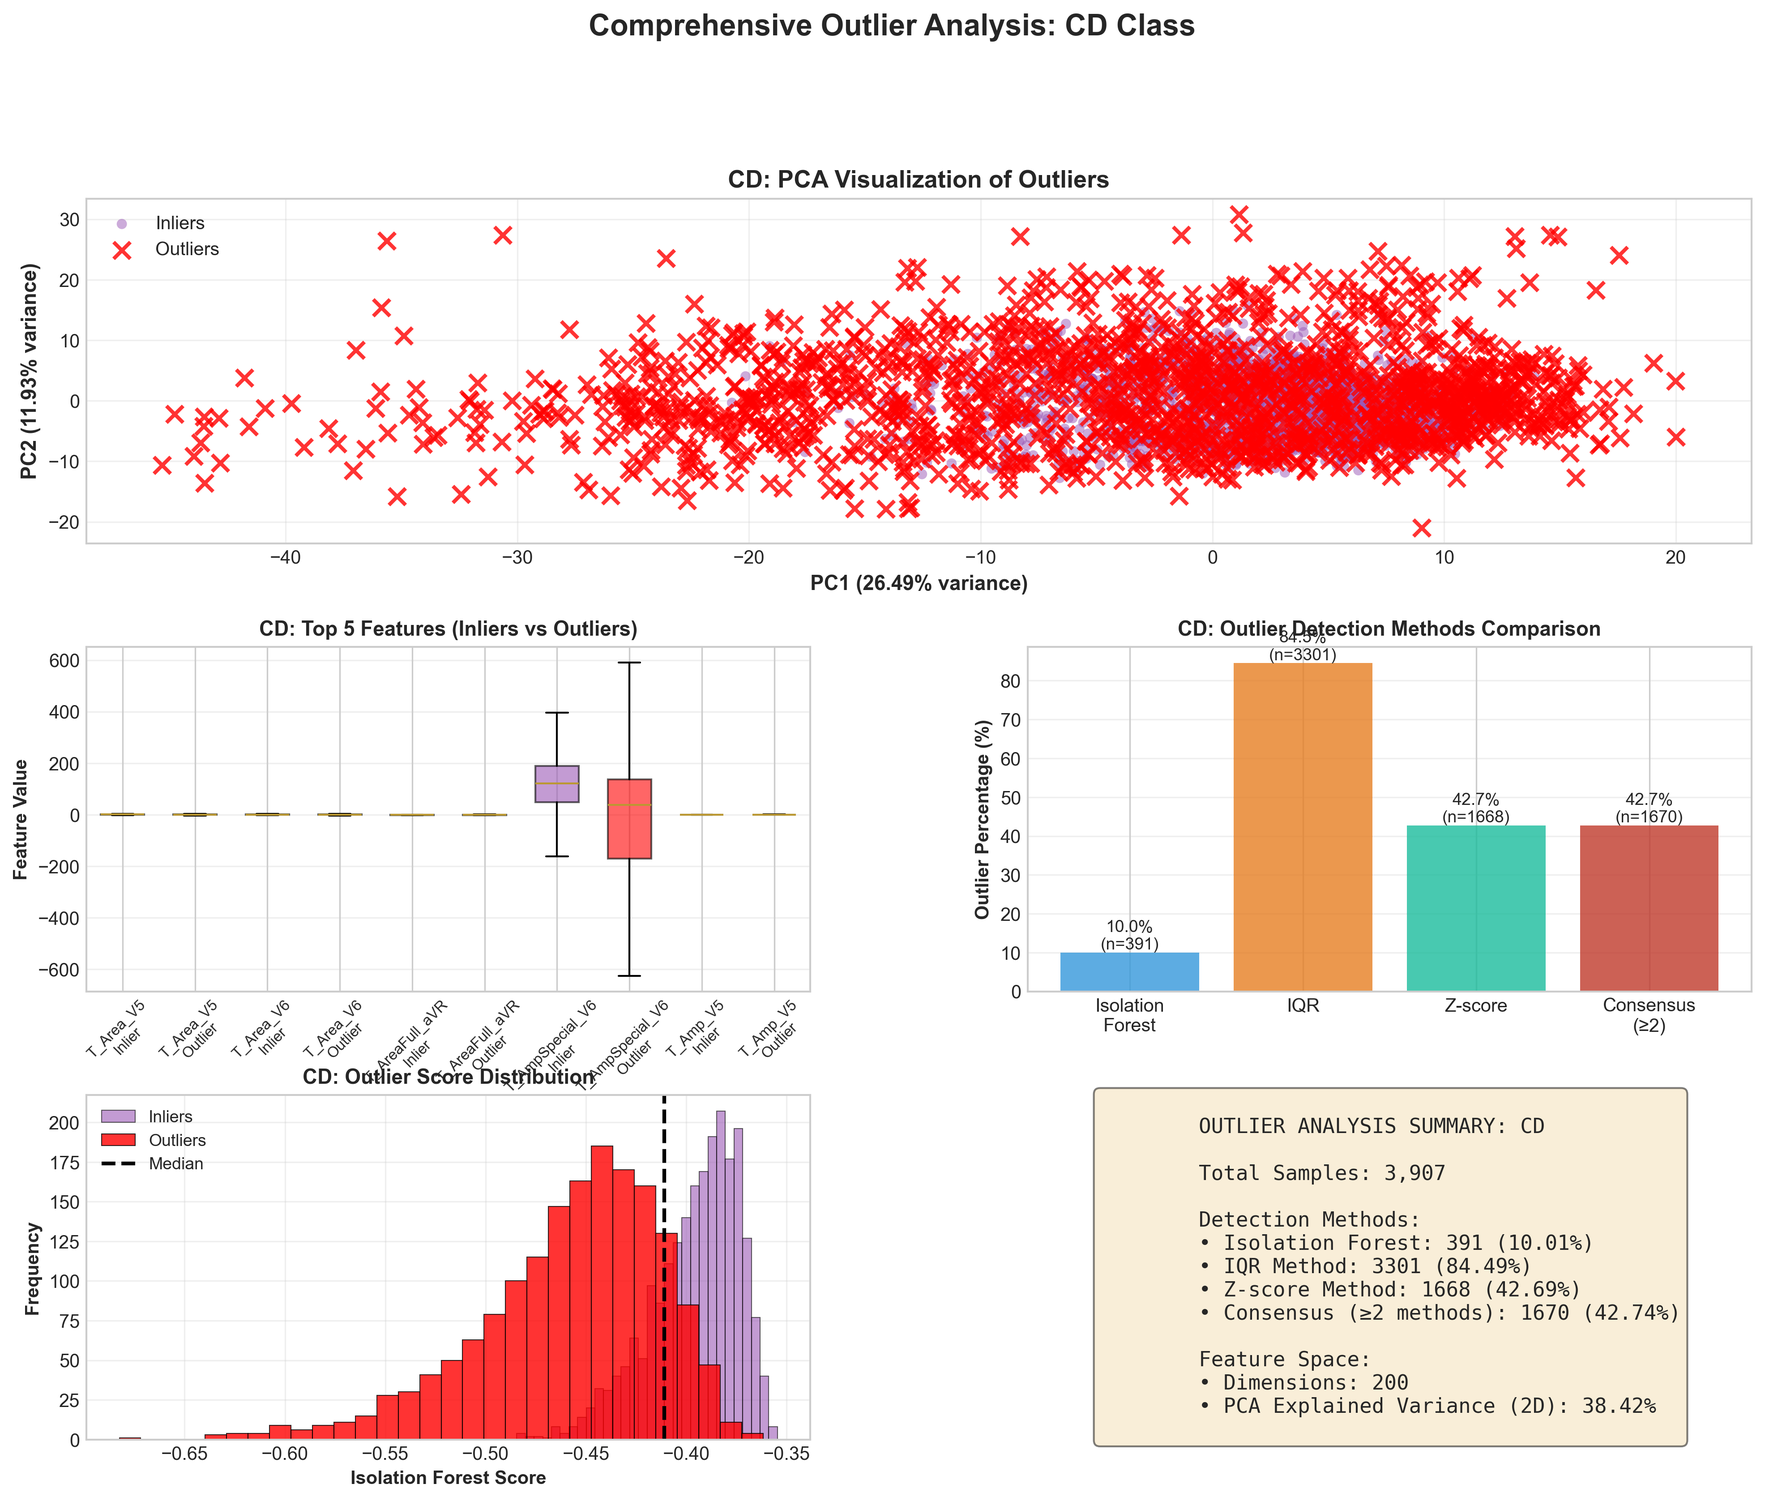
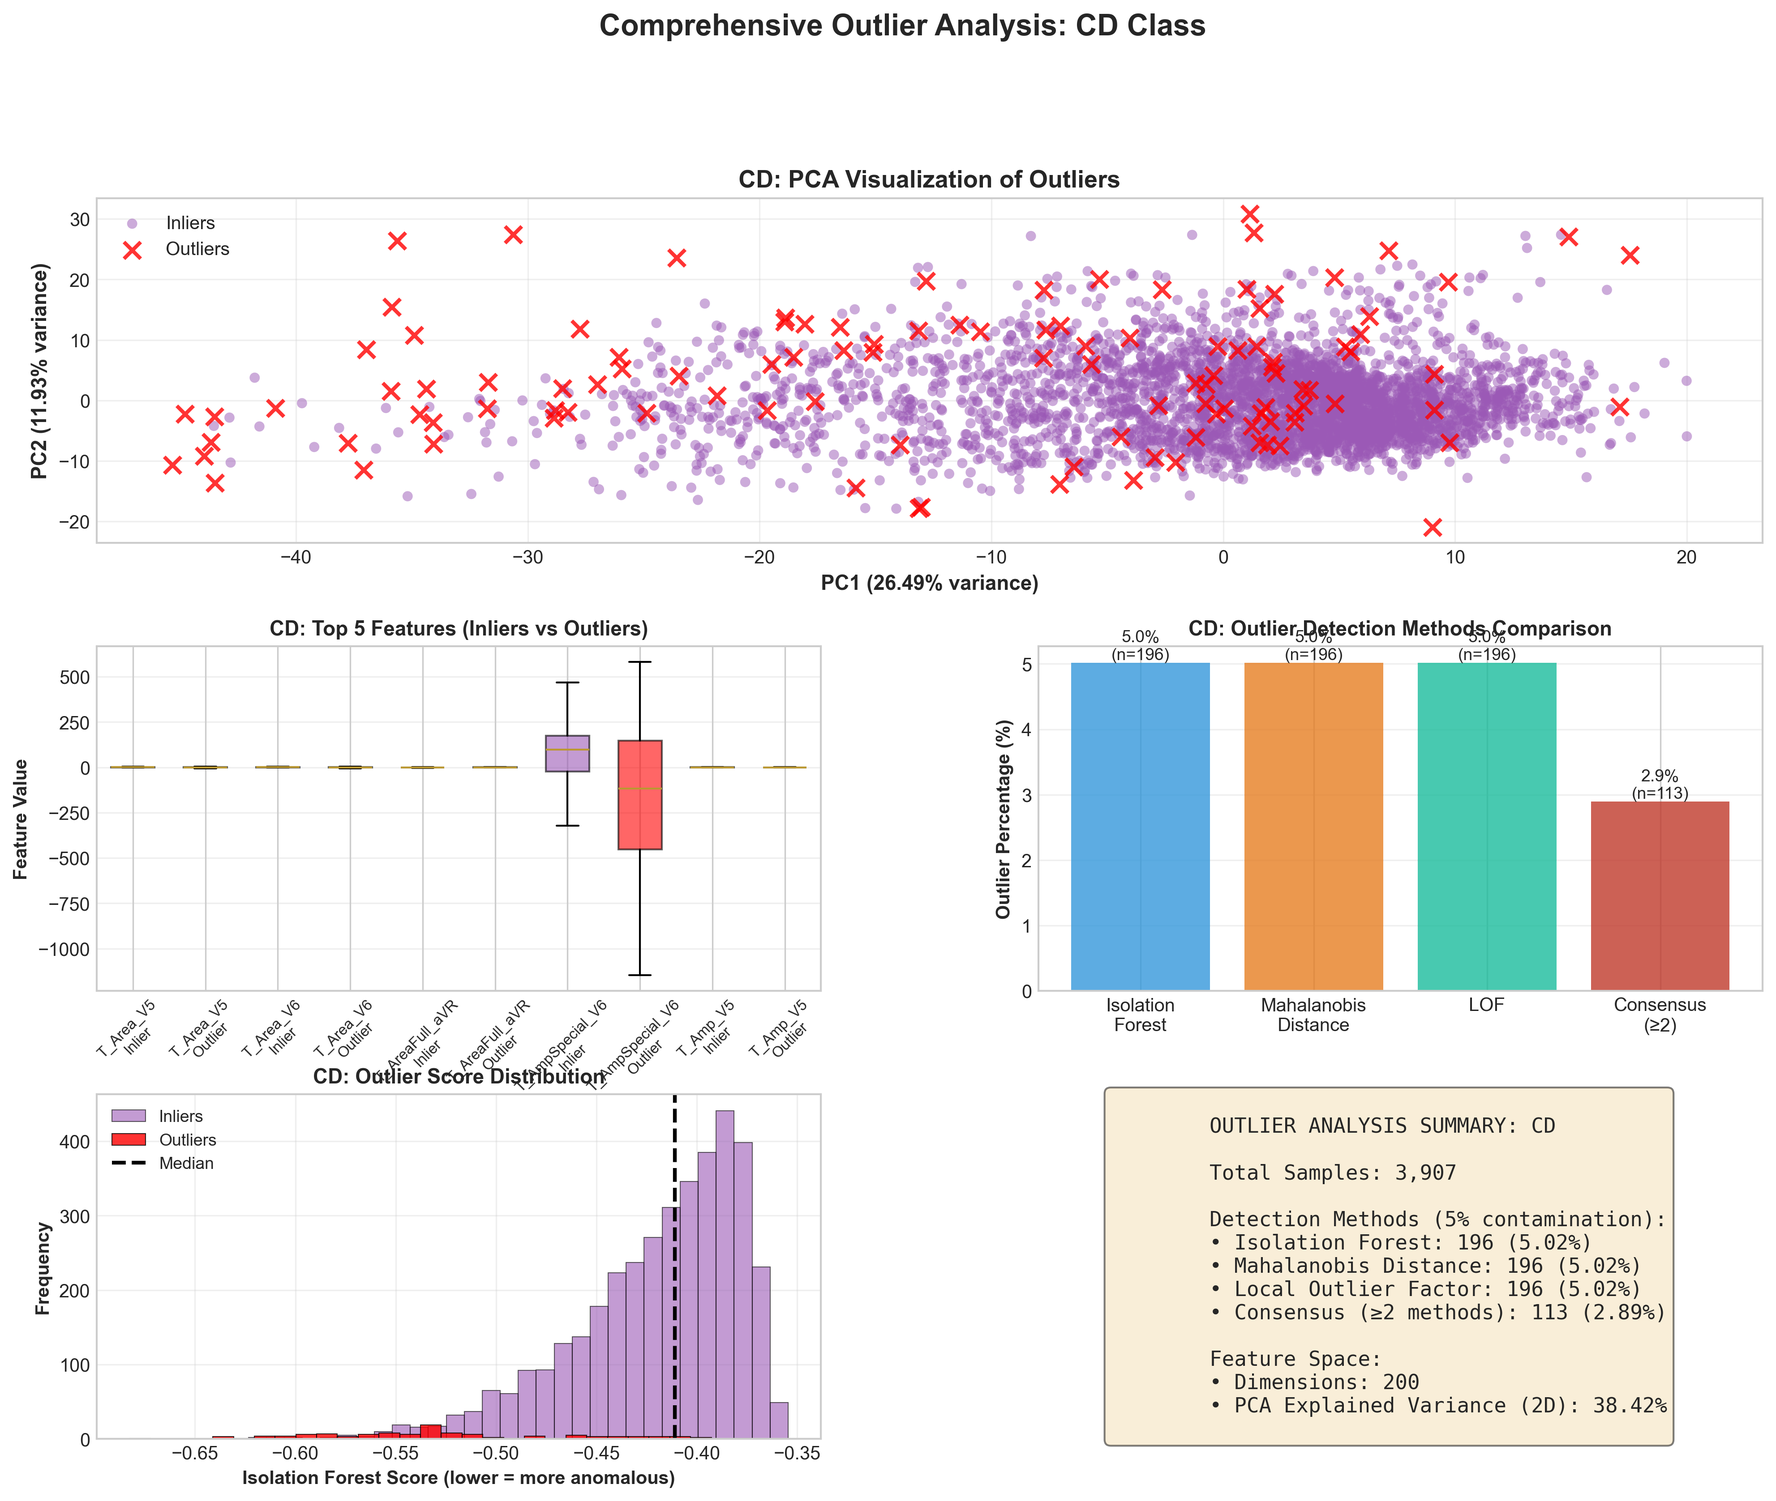
Fix outlier analysis: use robust multivariate methods
- Removed IQR method (too aggressive, not suitable for high-dimensional data)
- Replaced with Mahalanobis Distance (robust multivariate outlier detection)
- Added Local Outlier Factor (LOF) for local density-based detection
- Reduced contamination from 10% to 5% for more conservative detection
- Results now show ~3% consensus outliers (much more reasonable)
- All methods now use 5% contamination threshold
- Consensus requires agreement from ≥2 robust methods

diff --git a/src/analysis/outlier_analysis_per_label.py b/src/analysis/outlier_analysis_per_label.py
@@ -9,8 +9,10 @@ import os
 import matplotlib.pyplot as plt
 import seaborn as sns
 from sklearn.ensemble import IsolationForest
+from sklearn.neighbors import LocalOutlierFactor
 from sklearn.decomposition import PCA
 from sklearn.preprocessing import StandardScaler
+from sklearn.covariance import MinCovDet
 from scipy import stats
 import warnings
 warnings.filterwarnings('ignore')
@@ -40,30 +42,45 @@ def load_features(n):
     df = pd.read_csv(path)
     return df['Feature'].tolist()
 
-def detect_outliers_isolation_forest(X_scaled, contamination=0.1):
-    """Detect outliers using Isolation Forest."""
+def detect_outliers_isolation_forest(X_scaled, contamination=0.05):
+    """Detect outliers using Isolation Forest with conservative contamination."""
     iso = IsolationForest(contamination=contamination, random_state=42, n_jobs=-1)
     outlier_preds = iso.fit_predict(X_scaled)
-    return outlier_preds == -1  # True for outliers
+    return outlier_preds == -1, iso.score_samples(X_scaled)  # True for outliers, scores
 
-def detect_outliers_iqr(X, threshold=1.5):
-    """Detect outliers using IQR method for each feature."""
-    outlier_mask = np.zeros(X.shape[0], dtype=bool)
-    for i in range(X.shape[1]):
-        Q1 = np.percentile(X[:, i], 25)
-        Q3 = np.percentile(X[:, i], 75)
-        IQR = Q3 - Q1
-        lower_bound = Q1 - threshold * IQR
-        upper_bound = Q3 + threshold * IQR
-        feature_outliers = (X[:, i] < lower_bound) | (X[:, i] > upper_bound)
-        outlier_mask |= feature_outliers
-    return outlier_mask
+def detect_outliers_mahalanobis(X_scaled, contamination=0.05):
+    """Detect outliers using Mahalanobis distance (robust to multivariate data)."""
+    try:
+        # Use robust covariance estimator (MinCovDet) to handle outliers in covariance estimation
+        robust_cov = MinCovDet(random_state=42).fit(X_scaled)
+        mahal_dist = robust_cov.mahalanobis(X_scaled)
+        
+        # Use percentile-based threshold instead of fixed threshold
+        threshold = np.percentile(mahal_dist, (1 - contamination) * 100)
+        outlier_mask = mahal_dist > threshold
+        
+        return outlier_mask, mahal_dist
+    except:
+        # Fallback to standard covariance if robust fails
+        cov = np.cov(X_scaled.T)
+        try:
+            inv_cov = np.linalg.inv(cov)
+            mean = np.mean(X_scaled, axis=0)
+            diff = X_scaled - mean
+            mahal_dist = np.sqrt(np.sum(diff @ inv_cov * diff, axis=1))
+            threshold = np.percentile(mahal_dist, (1 - contamination) * 100)
+            outlier_mask = mahal_dist > threshold
+            return outlier_mask, mahal_dist
+        except:
+            # If still fails, return no outliers
+            return np.zeros(X_scaled.shape[0], dtype=bool), np.zeros(X_scaled.shape[0])
 
-def detect_outliers_zscore(X_scaled, threshold=3):
-    """Detect outliers using Z-score method."""
-    z_scores = np.abs(stats.zscore(X_scaled, axis=0))
-    outlier_mask = (z_scores > threshold).any(axis=1)
-    return outlier_mask
+def detect_outliers_lof(X_scaled, contamination=0.05):
+    """Detect outliers using Local Outlier Factor."""
+    n_neighbors = min(20, max(10, X_scaled.shape[0] // 10))  # Adaptive neighbors
+    lof = LocalOutlierFactor(n_neighbors=n_neighbors, contamination=contamination, n_jobs=-1)
+    outlier_preds = lof.fit_predict(X_scaled)
+    return outlier_preds == -1, -lof.negative_outlier_factor_  # True for outliers, scores
 
 def analyze_outliers_per_label(train_df, features, target_cols):
     """Analyze outliers for each target label separately."""
@@ -93,28 +110,28 @@ def analyze_outliers_per_label(train_df, features, target_cols):
             print(f"  Skipping {label}: insufficient samples")
             continue
         
-        # Detect outliers using multiple methods
-        # Isolation Forest (10% contamination)
-        iso_outliers = detect_outliers_isolation_forest(X_label_scaled, contamination=0.1)
+        # Detect outliers using multiple robust methods
+        # Isolation Forest (5% contamination - more conservative)
+        iso_outliers, iso_scores = detect_outliers_isolation_forest(X_label_scaled, contamination=0.05)
         n_iso = iso_outliers.sum()
         
-        # IQR method
-        iqr_outliers = detect_outliers_iqr(X_label, threshold=1.5)
-        n_iqr = iqr_outliers.sum()
+        # Mahalanobis Distance (5% contamination)
+        mahal_outliers, mahal_dist = detect_outliers_mahalanobis(X_label_scaled, contamination=0.05)
+        n_mahal = mahal_outliers.sum()
         
-        # Z-score method
-        zscore_outliers = detect_outliers_zscore(X_label_scaled, threshold=3)
-        n_zscore = zscore_outliers.sum()
+        # Local Outlier Factor (5% contamination)
+        lof_outliers, lof_scores = detect_outliers_lof(X_label_scaled, contamination=0.05)
+        n_lof = lof_outliers.sum()
         
-        # Consensus: outlier if detected by at least 2 methods
+        # Consensus: outlier if detected by at least 2 methods (more reliable)
         consensus_outliers = (iso_outliers.astype(int) + 
-                             iqr_outliers.astype(int) + 
-                             zscore_outliers.astype(int)) >= 2
+                             mahal_outliers.astype(int) + 
+                             lof_outliers.astype(int)) >= 2
         n_consensus = consensus_outliers.sum()
         
         print(f"  Isolation Forest outliers: {n_iso} ({n_iso/n_samples*100:.2f}%)")
-        print(f"  IQR outliers: {n_iqr} ({n_iqr/n_samples*100:.2f}%)")
-        print(f"  Z-score outliers: {n_zscore} ({n_zscore/n_samples*100:.2f}%)")
+        print(f"  Mahalanobis Distance outliers: {n_mahal} ({n_mahal/n_samples*100:.2f}%)")
+        print(f"  Local Outlier Factor (LOF) outliers: {n_lof} ({n_lof/n_samples*100:.2f}%)")
         print(f"  Consensus outliers (≥2 methods): {n_consensus} ({n_consensus/n_samples*100:.2f}%)")
         
         # Store results
@@ -123,13 +140,16 @@ def analyze_outliers_per_label(train_df, features, target_cols):
             'X': X_label,
             'X_scaled': X_label_scaled,
             'iso_outliers': iso_outliers,
-            'iqr_outliers': iqr_outliers,
-            'zscore_outliers': zscore_outliers,
+            'iso_scores': iso_scores,
+            'mahal_outliers': mahal_outliers,
+            'mahal_dist': mahal_dist,
+            'lof_outliers': lof_outliers,
+            'lof_scores': lof_scores,
             'consensus_outliers': consensus_outliers,
             'n_samples': n_samples,
             'n_iso': n_iso,
-            'n_iqr': n_iqr,
-            'n_zscore': n_zscore,
+            'n_mahal': n_mahal,
+            'n_lof': n_lof,
             'n_consensus': n_consensus
         }
     
@@ -160,8 +180,8 @@ def create_visualizations_per_label(all_results, features, target_cols, scaler):
             'Label': label,
             'Total Samples': res['n_samples'],
             'Isolation Forest (%)': f"{res['n_iso']/res['n_samples']*100:.2f}",
-            'IQR (%)': f"{res['n_iqr']/res['n_samples']*100:.2f}",
-            'Z-score (%)': f"{res['n_zscore']/res['n_samples']*100:.2f}",
+            'Mahalanobis Distance (%)': f"{res['n_mahal']/res['n_samples']*100:.2f}",
+            'Local Outlier Factor (%)': f"{res['n_lof']/res['n_samples']*100:.2f}",
             'Consensus (%)': f"{res['n_consensus']/res['n_samples']*100:.2f}"
         })
     
@@ -170,11 +190,11 @@ def create_visualizations_per_label(all_results, features, target_cols, scaler):
     print(f"\nSaved summary statistics to {os.path.join(OUTPUT_DIR, 'outlier_summary_per_label.csv')}")
     
     # 2. Bar plot: Outlier percentages per label
-    fig, ax = plt.subplots(figsize=(12, 6))
+    fig, ax = plt.subplots(figsize=(14, 6))
     x = np.arange(len(target_cols))
     width = 0.2
     
-    methods = ['Isolation Forest', 'IQR', 'Z-score', 'Consensus']
+    methods = ['Isolation Forest', 'Mahalanobis Distance', 'Local Outlier Factor', 'Consensus']
     colors_methods = ['#3498db', '#e67e22', '#1abc9c', '#c0392b']
     
     for i, method in enumerate(methods):
@@ -184,10 +204,10 @@ def create_visualizations_per_label(all_results, features, target_cols, scaler):
                 res = all_results[label]
                 if method == 'Isolation Forest':
                     val = res['n_iso'] / res['n_samples'] * 100
-                elif method == 'IQR':
-                    val = res['n_iqr'] / res['n_samples'] * 100
-                elif method == 'Z-score':
-                    val = res['n_zscore'] / res['n_samples'] * 100
+                elif method == 'Mahalanobis Distance':
+                    val = res['n_mahal'] / res['n_samples'] * 100
+                elif method == 'Local Outlier Factor':
+                    val = res['n_lof'] / res['n_samples'] * 100
                 else:  # Consensus
                     val = res['n_consensus'] / res['n_samples'] * 100
                 values.append(val)
@@ -282,8 +302,8 @@ def create_visualizations_per_label(all_results, features, target_cols, scaler):
         
         # 3c. Outlier detection method comparison
         ax3 = fig.add_subplot(gs[1, 1])
-        methods = ['Isolation\nForest', 'IQR', 'Z-score', 'Consensus\n(≥2)']
-        counts = [res['n_iso'], res['n_iqr'], res['n_zscore'], res['n_consensus']]
+        methods = ['Isolation\nForest', 'Mahalanobis\nDistance', 'LOF', 'Consensus\n(≥2)']
+        counts = [res['n_iso'], res['n_mahal'], res['n_lof'], res['n_consensus']]
         percentages = [c/res['n_samples']*100 for c in counts]
         
         bars = ax3.bar(methods, percentages, color=['#3498db', '#e67e22', '#1abc9c', '#c0392b'], alpha=0.8)
@@ -300,16 +320,14 @@ def create_visualizations_per_label(all_results, features, target_cols, scaler):
         
         # 3d. Distribution of outlier scores (using Isolation Forest scores)
         ax4 = fig.add_subplot(gs[2, 0])
-        iso = IsolationForest(contamination=0.1, random_state=42, n_jobs=-1)
-        iso.fit(res['X_scaled'])
-        scores = iso.score_samples(res['X_scaled'])
+        scores = res['iso_scores']
         
         ax4.hist(scores[inlier_mask], bins=30, alpha=0.6, color=label_colors[label], 
                 label='Inliers', edgecolor='black', linewidth=0.5)
         ax4.hist(scores[outlier_mask], bins=30, alpha=0.8, color='red', 
                 label='Outliers', edgecolor='black', linewidth=0.5)
         ax4.axvline(np.median(scores), color='black', linestyle='--', linewidth=2, label='Median')
-        ax4.set_xlabel('Isolation Forest Score', fontsize=10, fontweight='bold')
+        ax4.set_xlabel('Isolation Forest Score (lower = more anomalous)', fontsize=10, fontweight='bold')
         ax4.set_ylabel('Frequency', fontsize=10, fontweight='bold')
         ax4.set_title(f'{label}: Outlier Score Distribution', fontsize=11, fontweight='bold')
         ax4.legend(fontsize=9)
@@ -324,10 +342,10 @@ def create_visualizations_per_label(all_results, features, target_cols, scaler):
         
         Total Samples: {res['n_samples']:,}
         
-        Detection Methods:
+        Detection Methods (5% contamination):
         • Isolation Forest: {res['n_iso']} ({res['n_iso']/res['n_samples']*100:.2f}%)
-        • IQR Method: {res['n_iqr']} ({res['n_iqr']/res['n_samples']*100:.2f}%)
-        • Z-score Method: {res['n_zscore']} ({res['n_zscore']/res['n_samples']*100:.2f}%)
+        • Mahalanobis Distance: {res['n_mahal']} ({res['n_mahal']/res['n_samples']*100:.2f}%)
+        • Local Outlier Factor: {res['n_lof']} ({res['n_lof']/res['n_samples']*100:.2f}%)
         • Consensus (≥2 methods): {res['n_consensus']} ({res['n_consensus']/res['n_samples']*100:.2f}%)
         
         Feature Space:

diff --git a/src/analysis/outlier_analysis.py b/src/analysis/outlier_analysis.py
@@ -1,0 +1,141 @@
+import pandas as pd
+import numpy as np
+import os
+import matplotlib.pyplot as plt
+import seaborn as sns
+from sklearn.ensemble import IsolationForest
+from sklearn.decomposition import PCA
+from sklearn.preprocessing import StandardScaler
+
+# Define paths
+BASE_DIR = '/Users/y.aykut/Codebase/PTB-XL+ paper/'
+DATA_DIR = os.path.join(BASE_DIR, 'data/processed/')
+FEATURE_DIR = os.path.join(BASE_DIR, 'reports/feature_selection/')
+OUTPUT_DIR = os.path.join(BASE_DIR, 'reports/outlier_analysis/')
+
+def load_data():
+    print("Loading data...")
+    train_df = pd.read_csv(os.path.join(DATA_DIR, 'train_imputed.csv'), index_col='ecg_id')
+    target_cols = ['NORM', 'MI', 'STTC', 'CD', 'HYP']
+    return train_df, target_cols
+
+def load_features(n):
+    path = os.path.join(FEATURE_DIR, f'top{n}_features.csv')
+    df = pd.read_csv(path)
+    return df['Feature'].tolist()
+
+def main():
+    train_df, target_cols = load_data()
+    features = load_features(200) # Use Top-200 features for analysis
+    
+    X = train_df[features]
+    y = train_df[target_cols]
+    
+    # Standardize data before Isolation Forest
+    scaler = StandardScaler()
+    X_scaled = scaler.fit_transform(X)
+    
+    # 1. Isolation Forest
+    print("Running Isolation Forest...")
+    # contamination='auto' usually sets it around 0.1, or we can specify.
+    # Let's use 'auto' to let the algorithm decide based on score distribution.
+    iso = IsolationForest(contamination='auto', random_state=42, n_jobs=-1)
+    outlier_preds = iso.fit_predict(X_scaled)
+    
+    # -1 is outlier, 1 is inlier
+    train_df['is_outlier'] = outlier_preds
+    train_df['outlier_label'] = train_df['is_outlier'].map({1: 'Normal', -1: 'Aykırı (Outlier)'})
+    
+    num_outliers = (outlier_preds == -1).sum()
+    total_samples = len(X)
+    print(f"Total Samples: {total_samples}")
+    print(f"Detected Outliers: {num_outliers} ({num_outliers/total_samples*100:.2f}%)")
+    
+    # 2. Analyze Outliers per Diagnostic Class
+    print("Analyzing outliers per class...")
+    
+    # Since it's multi-label, we iterate over classes
+    class_outlier_stats = []
+    
+    for col in target_cols:
+        # Get samples belonging to this class
+        class_samples = train_df[train_df[col] == 1]
+        n_class = len(class_samples)
+        n_outliers_class = (class_samples['is_outlier'] == -1).sum()
+        ratio = n_outliers_class / n_class * 100
+        
+        class_outlier_stats.append({
+            'Class': col,
+            'Total': n_class,
+            'Outliers': n_outliers_class,
+            'Ratio (%)': ratio
+        })
+        
+    stats_df = pd.DataFrame(class_outlier_stats)
+    print("\nOutlier Statistics per Class:")
+    print(stats_df)
+    stats_df.to_csv(os.path.join(OUTPUT_DIR, 'outlier_stats_per_class.csv'), index=False)
+    
+    # 3. Visualizations
+    
+    # Bar Plot: Outlier Ratio per Class
+    plt.figure(figsize=(10, 6))
+    sns.barplot(x='Class', y='Ratio (%)', data=stats_df, palette='Reds')
+    plt.title('Tanı Sınıflarına Göre Aykırı Değer Oranı')
+    plt.ylabel('Aykırı Değer Oranı (%)')
+    plt.xlabel('Tanı Sınıfı')
+    plt.ylim(0, 100)
+    for index, row in stats_df.iterrows():
+        plt.text(index, row['Ratio (%)'] + 1, f"{row['Ratio (%)']:.1f}%", ha='center', color='black')
+    plt.tight_layout()
+    plt.savefig(os.path.join(OUTPUT_DIR, 'outlier_ratio_per_class.png'), dpi=300)
+    print(f"Saved bar plot to {os.path.join(OUTPUT_DIR, 'outlier_ratio_per_class.png')}")
+    
+    # PCA Visualization (2D)
+    print("Generating PCA visualization...")
+    pca = PCA(n_components=2)
+    X_pca = pca.fit_transform(X_scaled)
+    
+    pca_df = pd.DataFrame(data=X_pca, columns=['PC1', 'PC2'])
+    pca_df['Outlier'] = train_df['outlier_label'].values
+    
+    # We also want to color by "Main Class" (simplified for viz)
+    # Priority: MI > STTC > CD > HYP > NORM
+    def get_main_label(row):
+        if row['MI'] == 1: return 'MI'
+        if row['STTC'] == 1: return 'STTC'
+        if row['CD'] == 1: return 'CD'
+        if row['HYP'] == 1: return 'HYP'
+        if row['NORM'] == 1: return 'NORM'
+        return 'Other'
+    
+    pca_df['Diagnosis'] = train_df.apply(get_main_label, axis=1)
+    
+    plt.figure(figsize=(12, 8))
+    # Color by Diagnosis, Style by Outlier status
+    sns.scatterplot(x='PC1', y='PC2', hue='Diagnosis', style='Outlier', data=pca_df, 
+                    palette={'NORM': 'green', 'MI': 'red', 'STTC': 'orange', 'CD': 'purple', 'HYP': 'blue', 'Other': 'gray'},
+                    alpha=0.7, s=60)
+    plt.title('PCA Düzleminde Veri Dağılımı ve Aykırı Değerler')
+    plt.xlabel(f'PC1 (Var: {pca.explained_variance_ratio_[0]:.2f})')
+    plt.ylabel(f'PC2 (Var: {pca.explained_variance_ratio_[1]:.2f})')
+    plt.legend(bbox_to_anchor=(1.05, 1), loc='upper left')
+    plt.tight_layout()
+    plt.savefig(os.path.join(OUTPUT_DIR, 'pca_outliers_by_class.png'), dpi=300)
+    print(f"Saved PCA plot to {os.path.join(OUTPUT_DIR, 'pca_outliers_by_class.png')}")
+    
+    # Boxplot of top 3 features for Outliers vs Normals
+    top_3_features = features[:3]
+    
+    plt.figure(figsize=(15, 5))
+    for i, feature in enumerate(top_3_features):
+        plt.subplot(1, 3, i+1)
+        sns.boxplot(x='outlier_label', y=feature, data=train_df, palette={'Normal': 'skyblue', 'Aykırı (Outlier)': 'salmon'})
+        plt.title(feature)
+        plt.xlabel('')
+    plt.tight_layout()
+    plt.savefig(os.path.join(OUTPUT_DIR, 'outlier_features_boxplot.png'), dpi=300)
+    print(f"Saved boxplot to {os.path.join(OUTPUT_DIR, 'outlier_features_boxplot.png')}")
+
+if __name__ == "__main__":
+    main()
